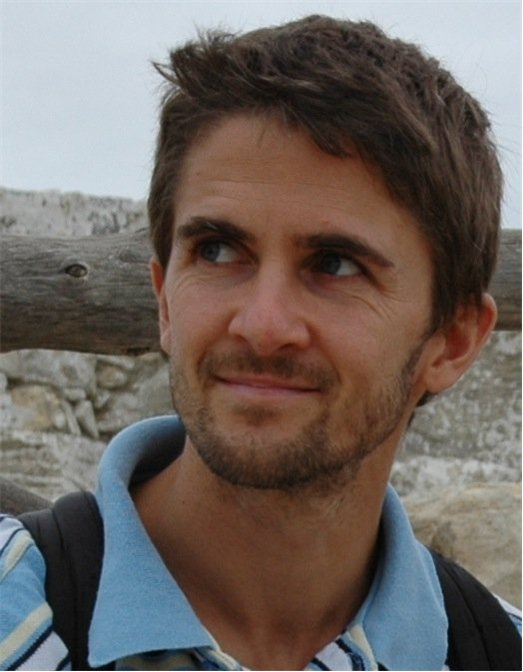
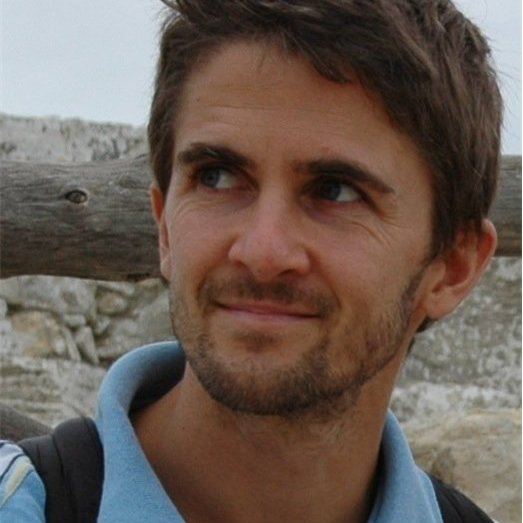
auto-cropping

diff --git a/app/models/picture.rb b/app/models/picture.rb
@@ -57,6 +57,16 @@ class Picture < ActiveRecord::Base
         else
             location = location_from_login(user_login)
             File.open(location, 'wb') { |f| f.write(picture_data)}
+
+            #crop the avatar to be square
+            original = Magick::Image.read(location)[0]
+            width = original.columns
+            y = (original.rows-width)/2
+            if y<0
+                y=0
+            end
+            croppedimage = original.crop(0,y,width,width)
+            croppedimage.write(location)
         end
         Picture.create(:location => location, :user_id => user_id, :created => DateTime.now.to_date)
     end
